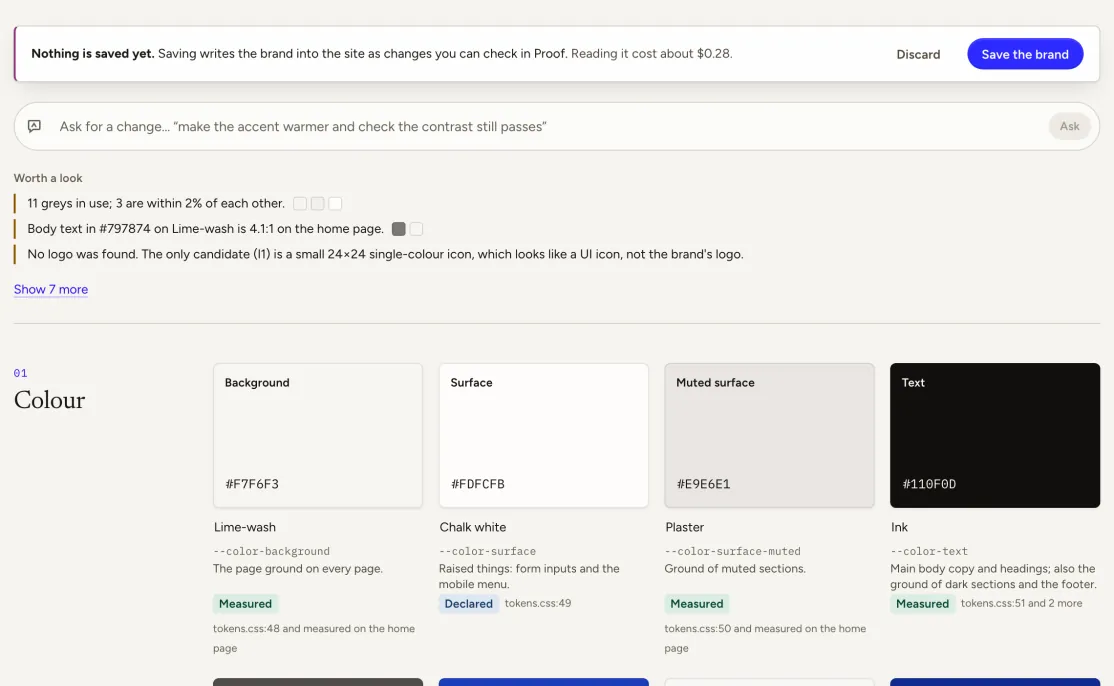
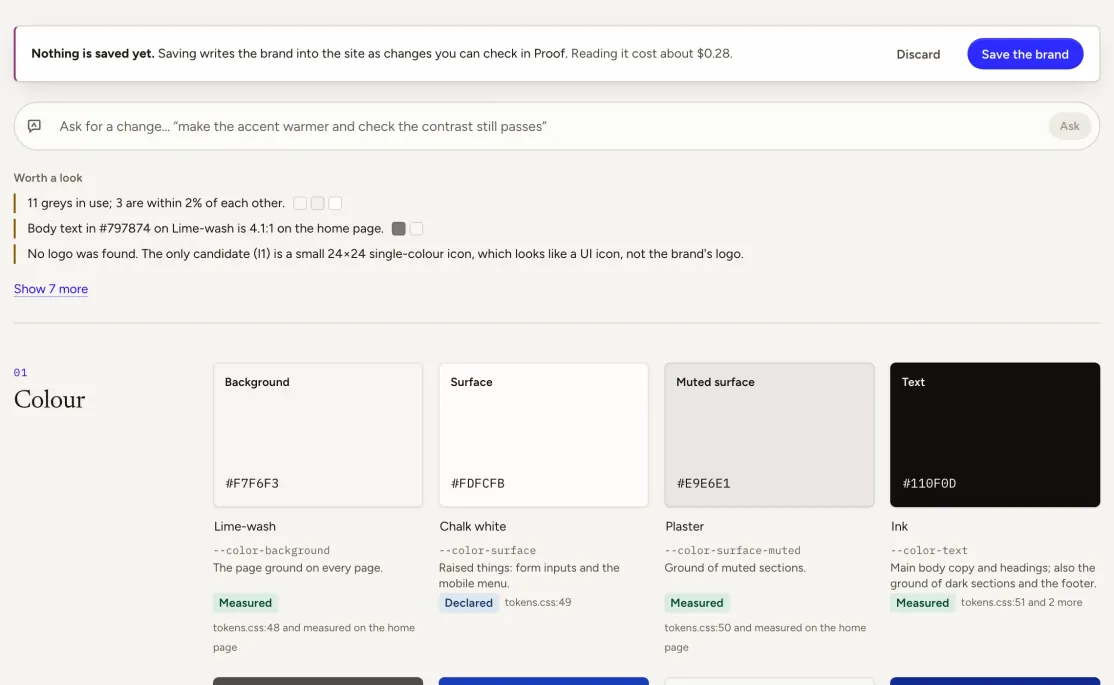
Site: five tour crops that cut through words, and three descriptions
The tour lays a smaller crop of a second picture over five of its rows,
each placed by hand for the app's old page frame. With the new pictures
four of them cut through their words: the brand's voice, the site's
address once it is online, the Editor online section, and what waits
to be published. Version history lost the first letters of every line.
Each is placed again, checked on the built page.

Descriptions the pictures contradict: the themes guide said every theme
has Use beside it (the one in use has not) and that the app's buttons
take a theme's colour after saving (its marks do); the editor's tour
named three modes the picture shows as icons. The page on many sites
listed a card's chips in the wrong order for "most urgent first".

The capture script keeps the guide's spelling of colour, so the next
capture does not put the other one back. A picture brought to a size
gets a half-size copy of exactly half: three were a pixel taller than
their pages declare.

Changed region(s): [[0.6409, 0.5518, 0.6715, 0.5825], [0.3968, 0.5518, 0.4273, 0.5825], [0.2136, 0.5518, 0.2442, 0.5825]]

diff --git a/apps/site/src/content/pages/tour.md b/apps/site/src/content/pages/tour.md
@@ -108,9 +108,9 @@ sections:
         guide: /docs/editing/history/
         visual:
           src: history
-          x: -345
+          x: -300
           y: -100
-          alt: Version history for Caddow, newest first — the latest version, marked Latest and Published here, with Put this site online and Undo this publish, and the earlier ones below it (an old link fixed, care notes, the brand written down, a phone number on the workroom form), each with who published it, when, and its own Undo this publish.
+          alt: Version history for Caddow, newest first — the latest version, marked Latest and Published here, with Put this site online and Undo this publish, and the earlier ones below it (an old link fixed, care notes, the brand written down, a phone number on the workroom form), each of those with who published it, when, and its own Undo this publish.
   - type: tour
     id: build
     label: Build pages
@@ -221,10 +221,10 @@ sections:
           alt: The brand proposal for Caddow, read from the site — Nothing is saved yet with Save the brand, Worth a look notes on near-identical greys and text contrast, and the first colours, Lime-wash, Chalk white, Plaster and Ink, each marked Measured or Declared, some with where in the styles they were found.
         inset:
           src: brand-voice
-          x: -505
-          y: -178
-          w: 470
-          h: 232
+          x: -476
+          y: -146
+          w: 500
+          h: 240
           alt: "The Voice part of the proposal — rules drawn from the site’s own words, each quoting the page it came from, with a line to avoid struck out and the site’s way written in beside it."
       - id: search
         layout: flip
@@ -259,10 +259,10 @@ sections:
           alt: Use your own domain, over the Online screen — the address www.caddow.example, and the note that Cloudflare will answer it with this site and set up its certificate, while nothing else on caddow.example changes; behind it, the site live at caddow.example-studio.workers.dev.
         inset:
           src: online-live
-          x: -390
-          y: -209
+          x: -272
+          y: -238
           w: 470
-          h: 218
+          h: 176
           alt: The Online screen afterwards — www.caddow.example with its Copy button, Live and updated just now, on Cloudflare in the project caddow, marked as your own address.
       - id: editor-online
         layout: flip
@@ -279,10 +279,10 @@ sections:
           alt: Host the editor online, at its plan — what would be created on Fly.io (the editor’s app, two addresses, a 3 GB disk, a computer with 2 GB of memory that sleeps while nobody uses it, three certificates for cms.caddow.example and its preview and live names), and What it costs, up to about $13 a month and usually much less, with each line and where the prices were read; then Back and Create the editor.
         inset:
           src: editor-online
-          x: -390
-          y: -520
+          x: -266
+          y: -516
           w: 470
-          h: 142
+          h: 152
           alt: The Online screen’s Editor online section — edit this site from any browser, not just this computer; the editor runs on your own account with a host, with its own sign-in — and the button Host the editor online.
       - id: hosted
         layout: wide
@@ -328,9 +328,9 @@ sections:
         inset:
           src: site-home
           x: -266
-          y: -366
+          y: -342
           w: 480
-          h: 238
+          h: 240
           alt: Site home for Caddow, Waiting to publish — three pages edited since the last publish, the home page, Journal and The atelier, with Review changes.
       - id: desktop
         layout: wide

diff --git a/apps/site/src/content/docs/editing/tour.md b/apps/site/src/content/docs/editing/tour.md
@@ -14,7 +14,7 @@ Open **Pages** (or any other collection) and choose a page. The editor shows thr
 <figure class="frame" style="padding: clamp(12px, 3vw, 28px); margin-block: 0 1.15em"><img src="/docs/editor-overview@1x.webp" srcset="/docs/editor-overview@1x.webp 1x, /docs/editor-overview.webp 2x" alt="The editor on the Caddow site's Journal page: the page's fields on the left, the page itself in the middle, and on the right the assistant's reply to a request to change the heading, with the buttons Review in Proof and Undo this change." width="1440" height="900" loading="lazy" decoding="async"></figure>
 
 - **The form** (left): every field of the page, in the site's own words. **Form** and **Source** switch between the fields and the file itself.
-- **The page** (middle): your site with your changes. **Proposed**, **Live site** and **Side by side** choose what you see; **Click to edit**, **Arrange** and **Browse** choose what a click does.
+- **The page** (middle): your site with your changes. **Proposed**, **Live site** and **Side by side** choose what you see; **Click to edit**, **Arrange** and **Browse** choose what a click does (three small icons when the pane is narrow, as in the picture).
 - **The assistant** (right): ask for a change in words.
 
 **Hide form**, **Hide preview** and **Hide assistant** make room when you need it.

diff --git a/apps/site/src/content/docs/editing/many-sites.md b/apps/site/src/content/docs/editing/many-sites.md
@@ -25,7 +25,7 @@ Groups, pins and notes are kept on this computer, not in any site.
 
 ## See what each is waiting on
 
-Each card shows chips, most urgent first: **N changes** waiting in Proof, **N unread** form submissions, versions not sent or not live, **Folder missing**, **Preview running**. A site with nothing waiting says **Up to date**. **Needs attention** shows only the sites with something waiting; search finds sites by name, client, note or address.
+Each card shows chips, most urgent first: **Folder missing**, versions not sent or not live, **N unread** form submissions, **N changes** waiting in Proof, **Preview running**. A site with nothing waiting says **Up to date**. **Needs attention** shows only the sites with something waiting; search finds sites by name, client, note or address.
 
 ## Switch between sites
 
